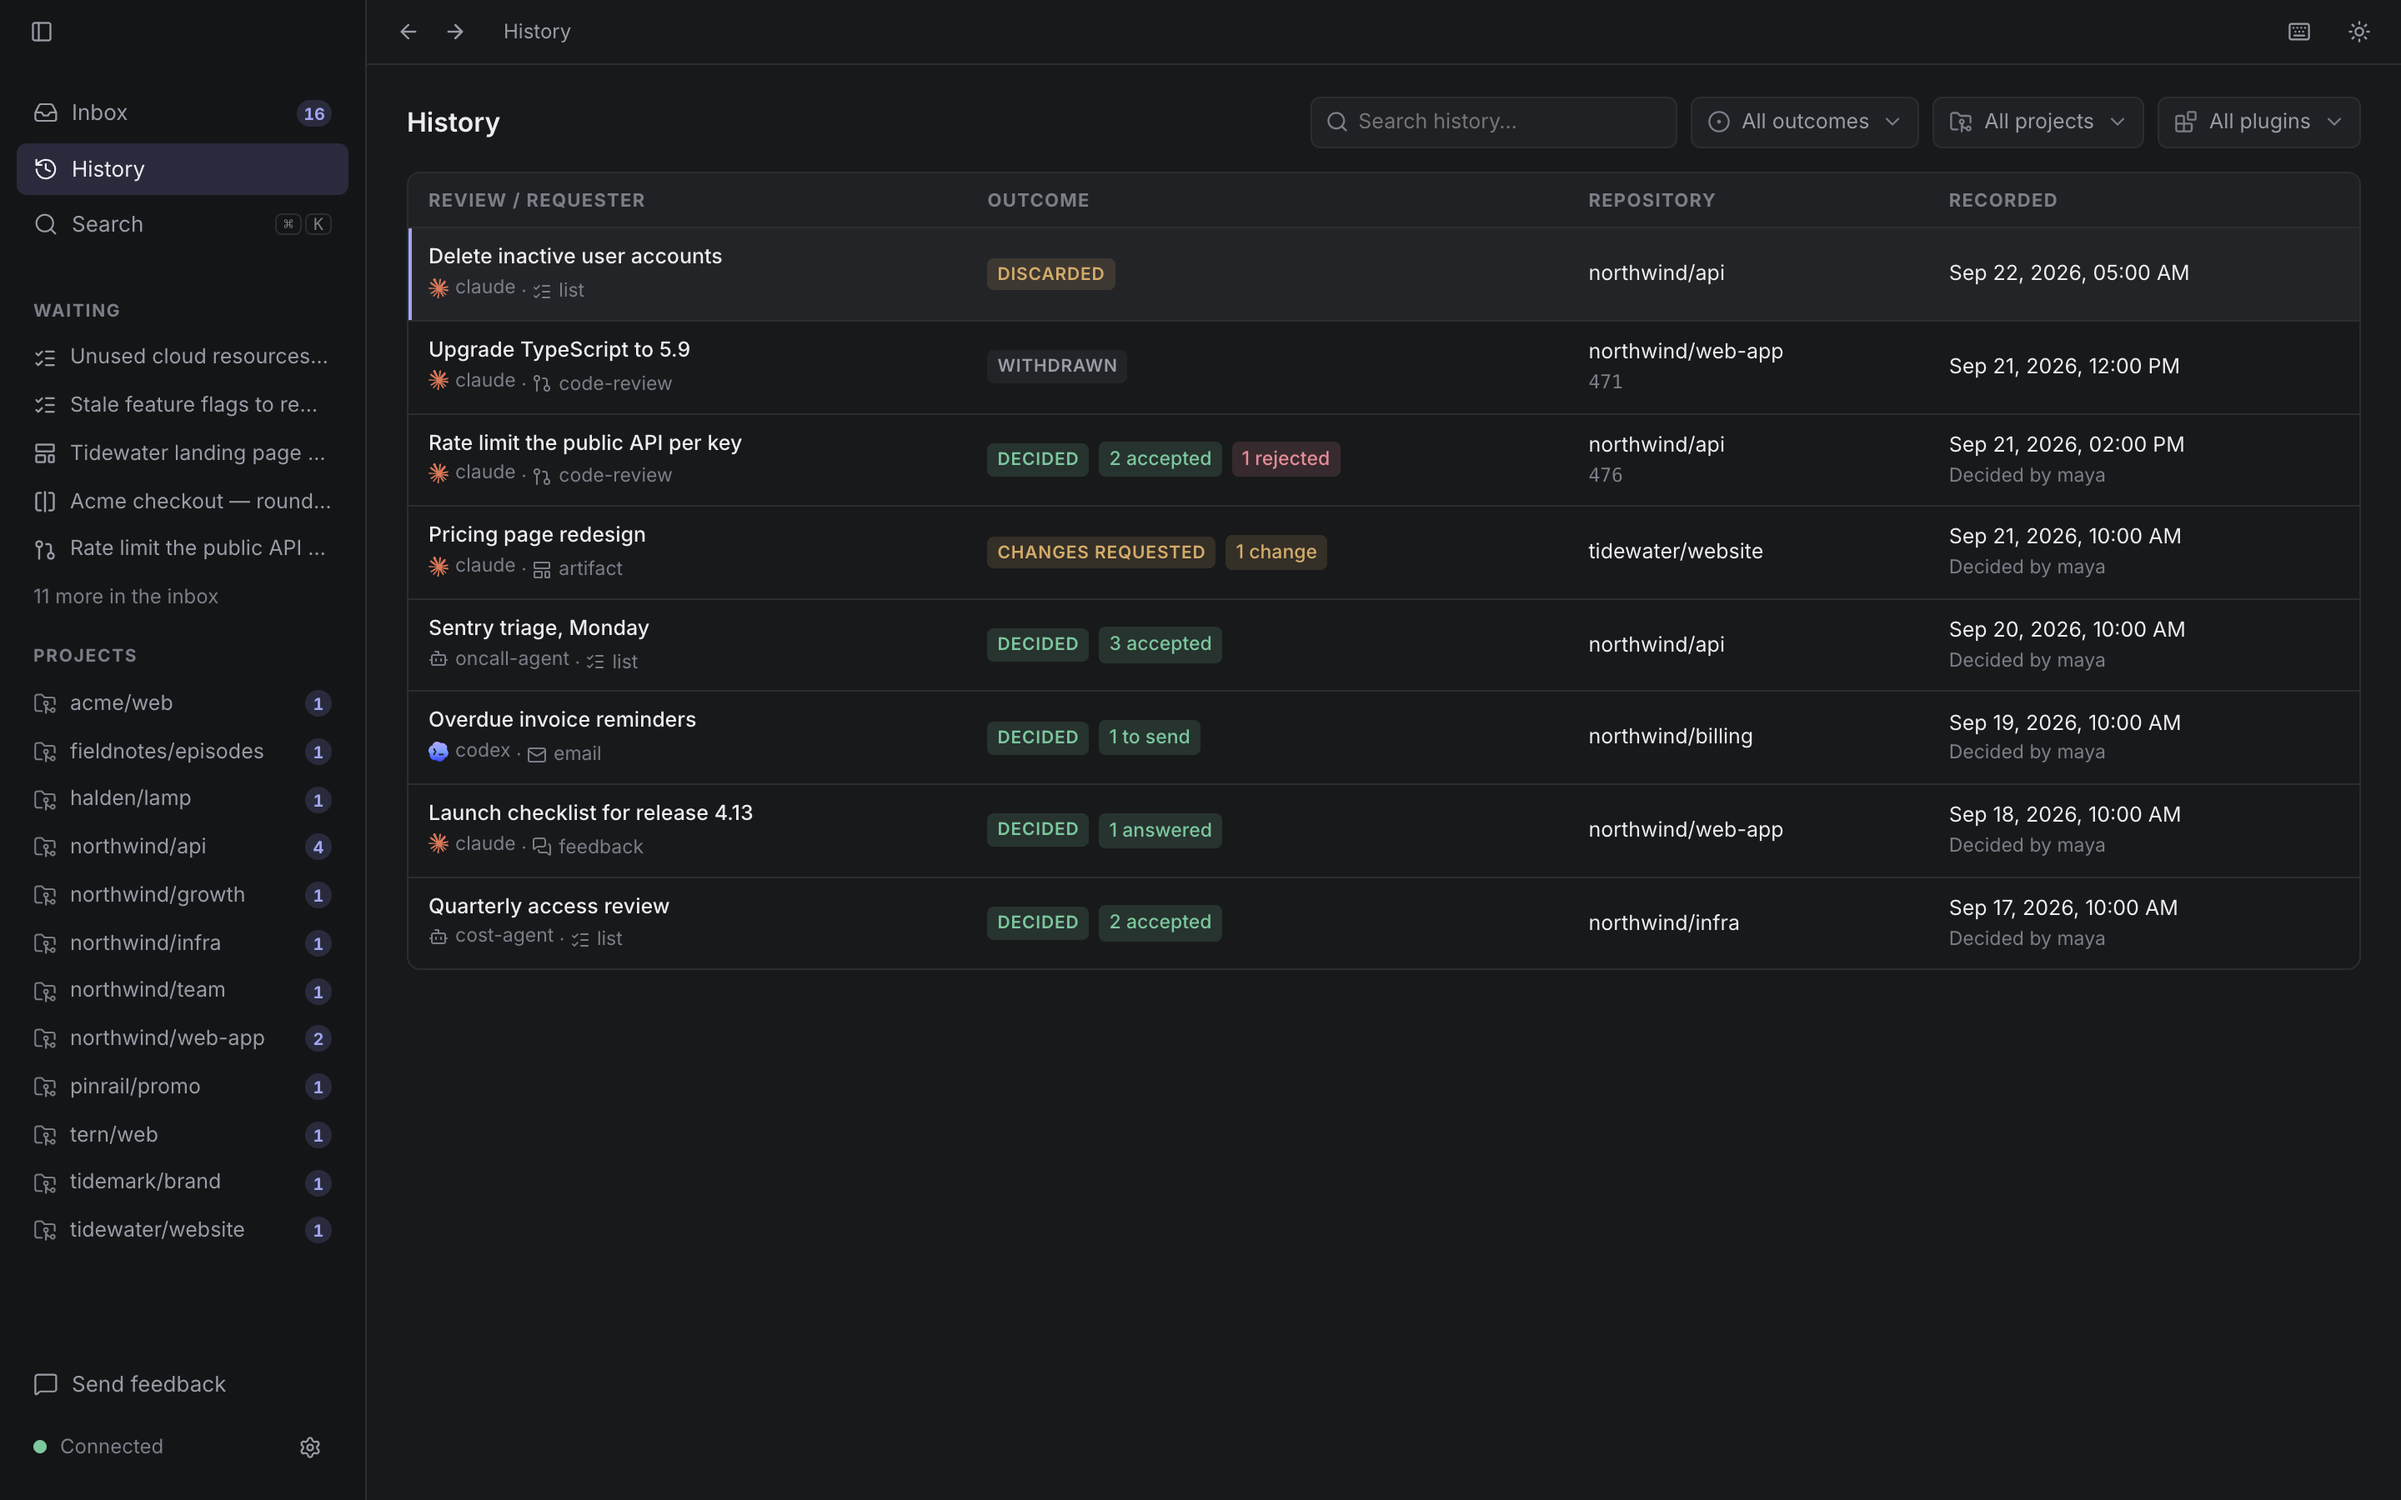
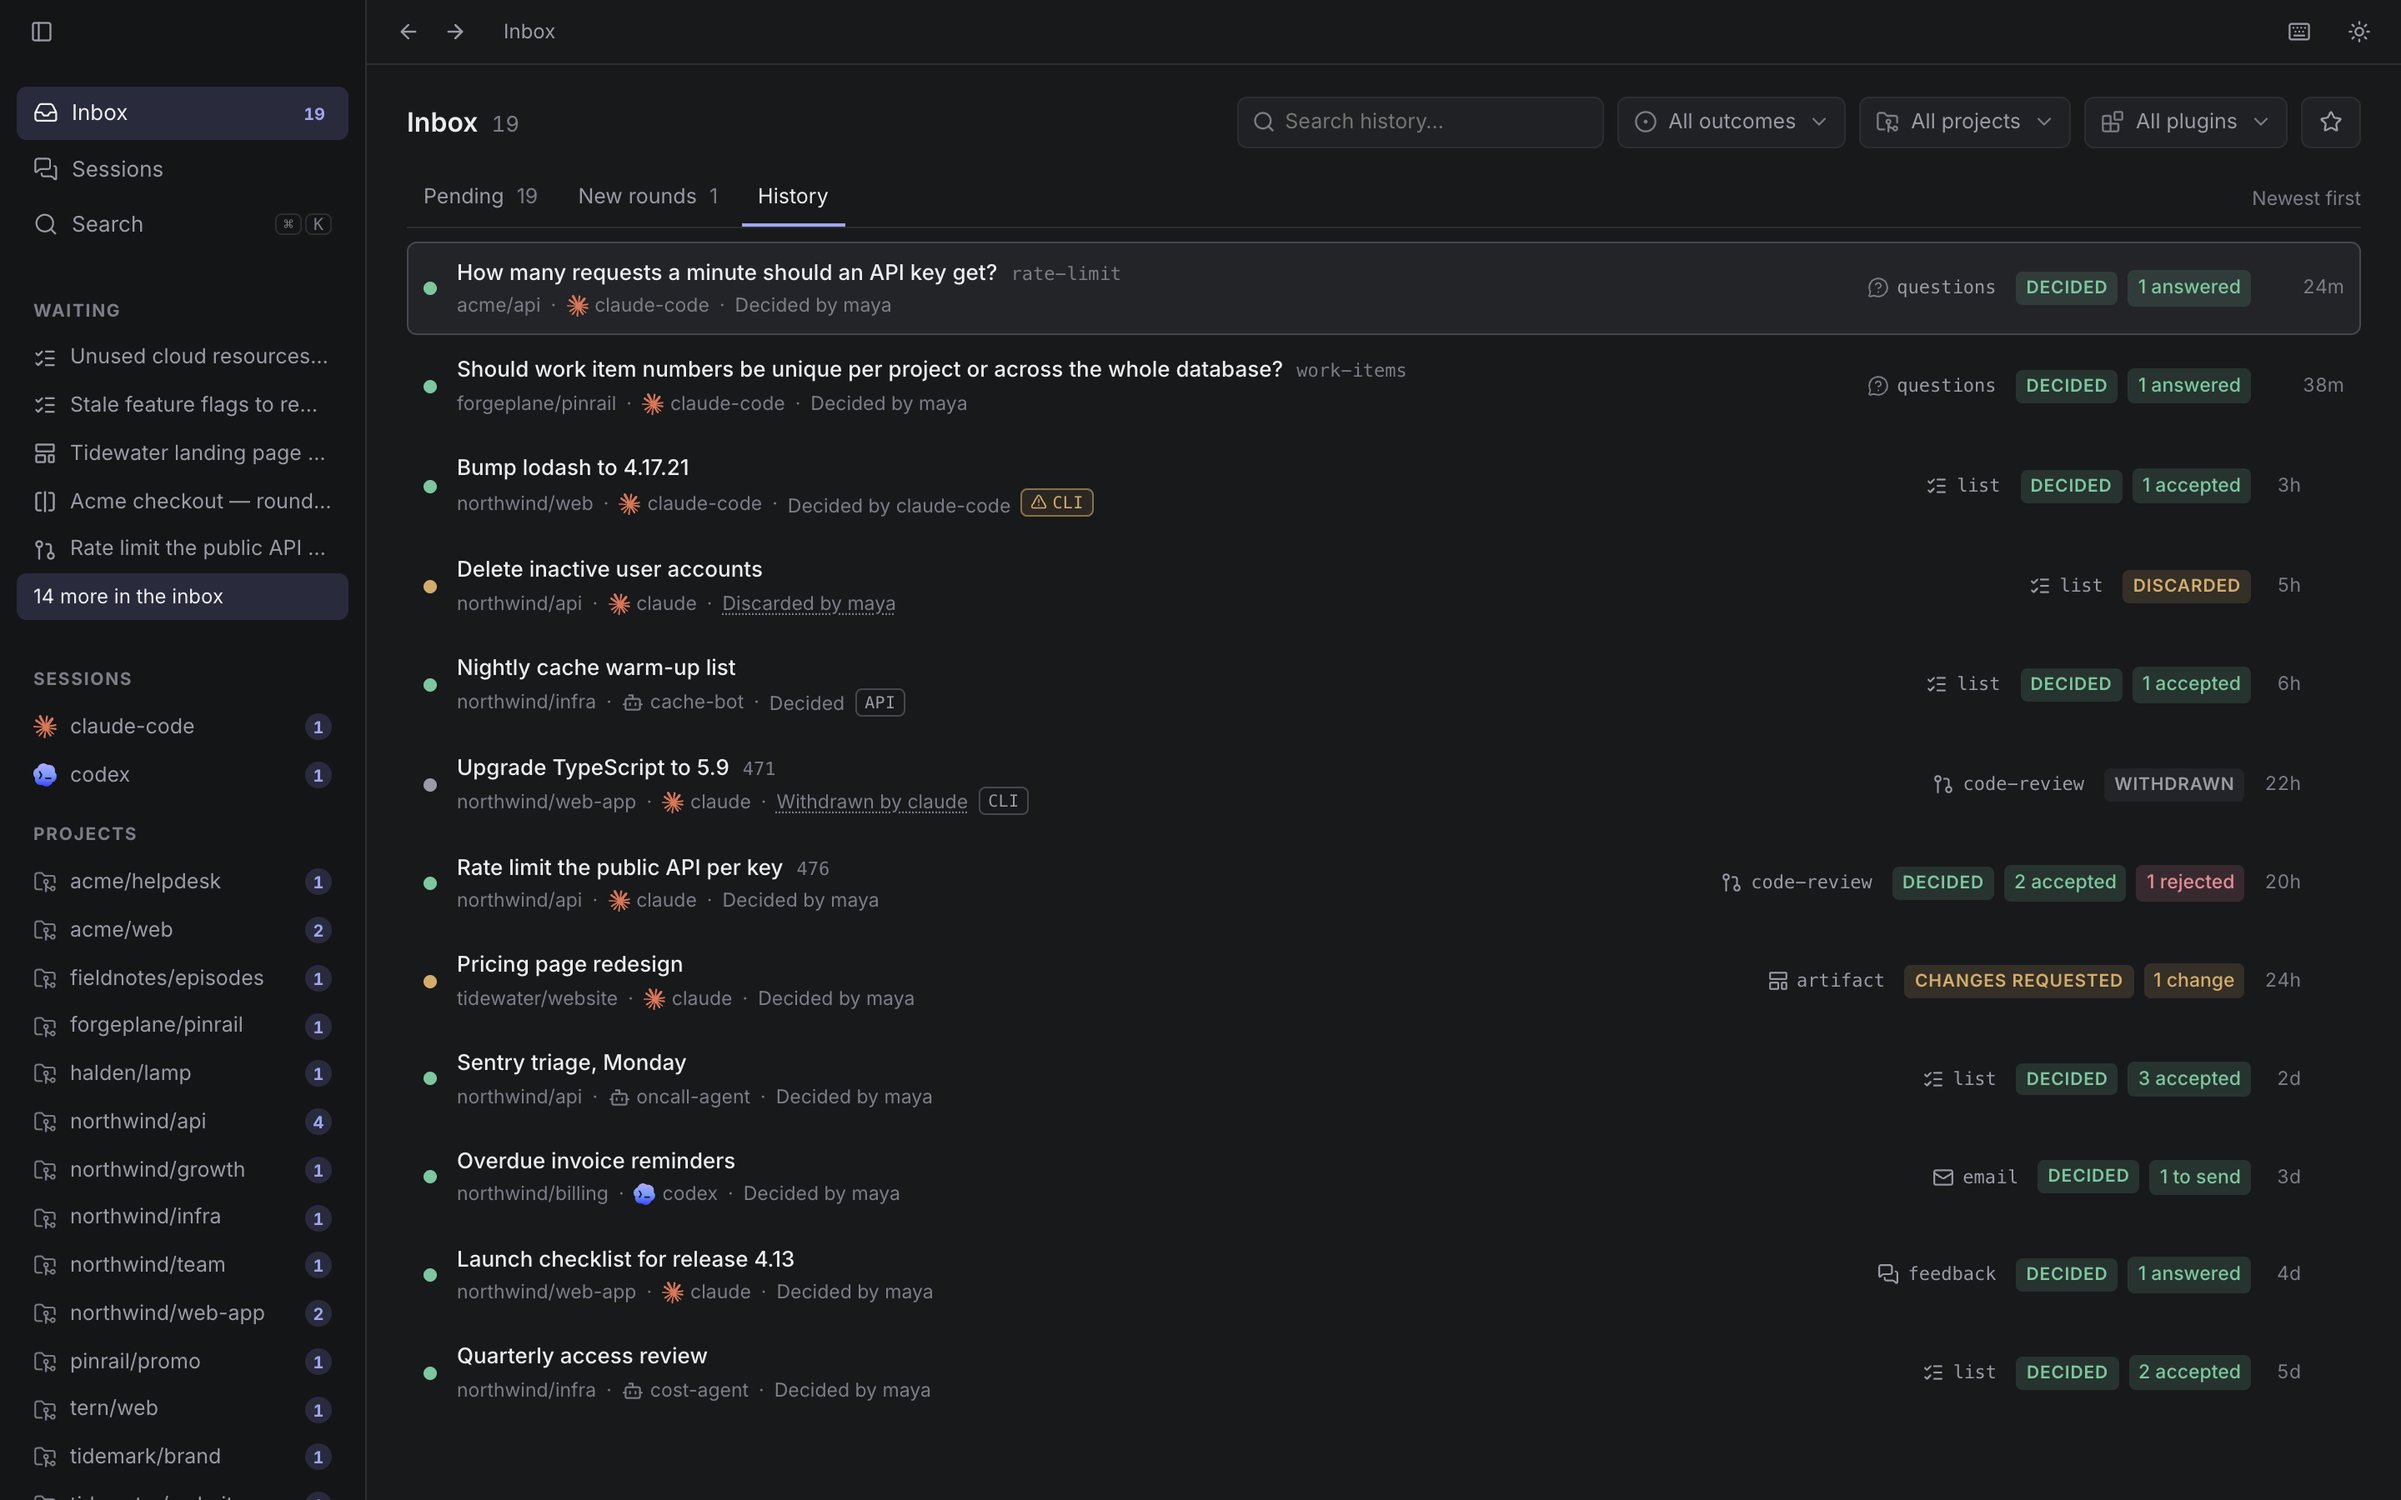
Document the inbox's History tab
Assisted-by: Claude Code (Claude Opus 5.5)

diff --git a/docs/using/inbox.md b/docs/using/inbox.md
@@ -3,7 +3,7 @@ title: The inbox
 description: "Where reviews wait for you, how you decide them, the history of everything decided, and the keys that move you through it."
 ---
 
-The inbox is where your agents' reviews wait. When you open a review, its plugin's view shows the work. You decide in the view and hand the decision over, and the agent continues. Reviews that have ended move to your history.
+The inbox is where your agents' reviews wait. When you open a review, its plugin's view shows the work. You decide in the view and hand the decision over, and the agent continues. Reviews that have ended move to the inbox's History tab.
 
 Questions an agent asks with `pinrail ask` wait in the inbox too, marked with a question icon and *asks you*. They open in the thread of the agent's session. See [Questions and sessions](/docs/using/sessions/).
 
@@ -11,12 +11,16 @@ Questions an agent asks with `pinrail ask` wait in the inbox too, marked with a 
 
 ## The inbox
 
-The inbox lists every **pending** review, newest first. Each row shows the title, the plugin, where it came from and who asked, and a summary of what the review asks. A paperclip icon shows that a review includes attachments, and how many. Hover over it to see their total size.
+The inbox has three tabs. *Pending* lists every review that waits, newest first. *New rounds* lists only the waiting reviews that revise an earlier one. *History* lists the reviews that have ended.
+
+On the *Pending* tab, each row shows the title, the plugin, where it came from and who asked, and a summary of what the review asks. A paperclip icon shows that a review includes attachments, and how many. Hover over it to see their total size.
 
 The summary is a set of counts, such as *1 blocker · 2 major · 1 nit* for a code review or *3 drafts* for emails, colored by importance. Each plugin decides what it counts, and a plugin that counts nothing shows no summary. The same counts appear in the notification for a new review and at the top of the review while it waits.
 
+The filters above the tabs apply to every tab, and keep their values when you switch tabs.
+
 - **Filter by project or plugin.** The sidebar lists the projects your reviews come from. Pick one, or choose a project or a plugin from the menus above the list, to see only those reviews.
-- **Show new rounds.** *New rounds* shows only the reviews that revise an earlier one.
+- **Show the starred reviews.** Turn on the star filter beside the menus. See [Stars](#stars).
 - **Search.** Press <kbd>/</kbd> and type. The inbox shows the reviews whose title, plugin, requester, project, workflow or reference contains the text you typed. The content of a review is not searched.
 - **Jump to the oldest.** The sidebar keeps the oldest waiting reviews one click away on every screen, and <kbd>⌥↓</kbd> and <kbd>⌥↑</kbd> step through what is waiting.
 
@@ -29,7 +33,7 @@ Open a review with <kbd>Enter</kbd> or a click. It opens in a panel beside the i
 - **Go to the next or previous review** with <kbd>J</kbd> and <kbd>K</kbd>, in the order the inbox lists them. They work while you work in the view too, unless you are typing in a field, and go round at the ends of the list: <kbd>J</kbd> on the last review goes to the first. <kbd>⌥↓</kbd> and <kbd>⌥↑</kbd> do the same.
 - **Resize the panel** by dragging its left edge. Pinrail remembers the width.
 
-The history opens a review in the same panel. To open reviews as a page of their own instead, set *Settings › General › Opening a review* to *As a page*.
+The *History* tab opens a review in the same panel. To open reviews as a page of their own instead, set *Settings › General › Opening a review* to *As a page*.
 
 1. **Decide in the view.** Use the controls that the plugin provides, for example to accept, reject, edit or comment. Your work is saved as a draft as you go, so you can open another review and come back to it.
 2. **Add a note to the agent**, if you want to, in the box below the view. In the macOS app you can dictate it: click the microphone, speak, and click it again or press <kbd>Esc</kbd> to stop. The first time, macOS asks for access to the microphone and to speech recognition.
@@ -57,23 +61,23 @@ When an agent revises a review you asked it to change, the new round opens with 
 
 ## History
 
-Every review that has ended is in your **history**: decided, discarded, withdrawn or expired. Open one and it renders read-only, with the release of the plugin it was submitted to.
+Every review that has ended is on the inbox's **History** tab: decided, discarded, withdrawn or expired. Each row shows the outcome, who ended the review and when. Open one and it renders read-only, with the release of the plugin it was submitted to. Open the tab with <kbd>⌘⇧H</kbd>.
 
 Each decided review shows what was decided, as its plugin counts it: for example *2 accepted · 1 rejected*, or a verdict such as *approved* in place of *decided*. The review's header shows the same, and so does the decision the agent receives.
 
-![History: ended reviews with their outcome and what was decided, their project, and when they were recorded.](screenshot:history "Reviews that were decided, discarded or withdrawn, newest first.")
+![The History tab: ended reviews with their outcome and what was decided, their project, and when they ended.](screenshot:history "Reviews that were decided, discarded or withdrawn, newest first.")
 
-To search your history, press <kbd>/</kbd> and type one or more words. A review matches when each word appears in its title, plugin, requester, project, workflow or reference, or in the name of the person who decided it. As in the inbox, the content of a review is not searched. You can also filter by project, plugin or outcome. Open it with <kbd>⌘⇧H</kbd>.
+To search the history, press <kbd>/</kbd> on the *History* tab and type one or more words. A review matches when each word appears in its title, plugin, requester, project, workflow or reference, or in the name of the person who decided it. As in the inbox, the content of a review is not searched. You can also filter by project, plugin or outcome. The *Outcome* menu shows on the *History* tab only.
 
 To choose how long history is kept, see *Keep reviews for* in [Settings](/docs/using/settings/#data).
 
 ## Stars
 
-Star a review to find it again later. Click the star in the review's header, on its page or in the side panel, or press <kbd>⌘⇧S</kbd>. In the inbox and the history, the star sits at the end of each row: it shows on a starred review, and on the others when the pointer is over the row. Click it again to remove the star. Questions cannot be starred.
+Star a review to find it again later. Click the star in the review's header, on its page or in the side panel, or press <kbd>⌘⇧S</kbd>. In the inbox, the star sits at the end of each row: it shows on a starred review, and on the others when the pointer is over the row. Click it again to remove the star. Questions cannot be starred.
 
 A star belongs to the round you starred. A review is shown as starred when any of its rounds is.
 
-To list the rounds you starred, turn on the star filter in the history, beside the project and plugin filters. A starred review is deleted with the rest of your history after the time set in *Keep reviews for*.
+To list the starred reviews, turn on the star filter in the inbox, beside the project and plugin filters. On the *Pending* and *New rounds* tabs, it lists the waiting reviews with a starred round. On the *History* tab, it lists only the rounds you starred. A starred review is deleted with the rest of your history after the time set in *Keep reviews for*.
 
 ## Search everything
 
@@ -94,10 +98,10 @@ Press <kbd>?</kbd> anywhere in the app to see these. On Linux, use <kbd>Ctrl</kb
 | <kbd>⌥↓</kbd> / <kbd>⌥↑</kbd> | Next / previous waiting review |
 | <kbd>Esc</kbd> | Close the review panel |
 | <kbd>⌘D</kbd> | Discard the focused or open review |
-| <kbd>/</kbd> | Search the inbox or the history |
+| <kbd>/</kbd> | Search the inbox |
 | <kbd>⌘K</kbd> | Search everything |
 | <kbd>⌘I</kbd> | Inbox |
-| <kbd>⌘⇧H</kbd> / <kbd>⌘⇧P</kbd> | History / Plugins |
+| <kbd>⌘⇧H</kbd> / <kbd>⌘⇧P</kbd> | The inbox's History tab / Plugins |
 | <kbd>⌘,</kbd> | Settings |
 | <kbd>⌘⇧L</kbd> | Switch theme |
 | <kbd>⌘B</kbd> | Show or hide the sidebar |

diff --git a/CHANGELOG.md b/CHANGELOG.md
@@ -43,11 +43,13 @@ The `pinrail` command ships inside the app and carries the app's version.
 - The command palette finds the stages agents started, and opens the
   session's thread where a stage started.
 - Star a review to find it again later, from its header, with ⌘⇧S, or
-  from its row in the inbox and the history. The history's star filter
-  lists the starred reviews.
+  from its row in the inbox. The inbox's star filter lists the starred
+  reviews.
 
 ### Changed
 
+- The history moved to a History tab in the inbox, with the same rows and
+  filters as the other tabs. ⌘⇧H opens the tab.
 - The `pinrail` skill tells agents to ask their questions through Pinrail
   with `pinrail ask`, not in the chat, and to report their progress with
   `pinrail status`.
